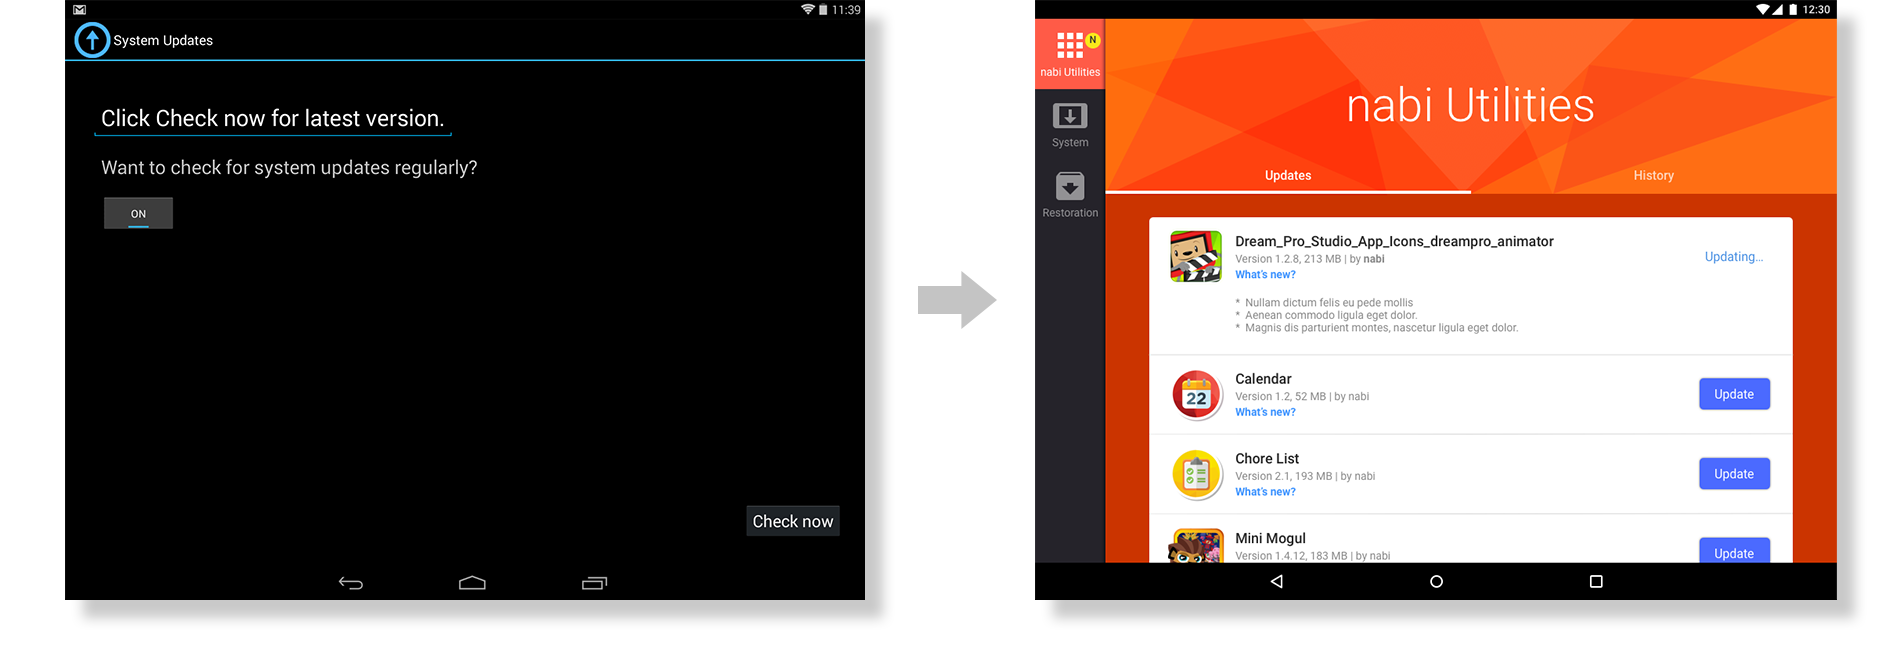
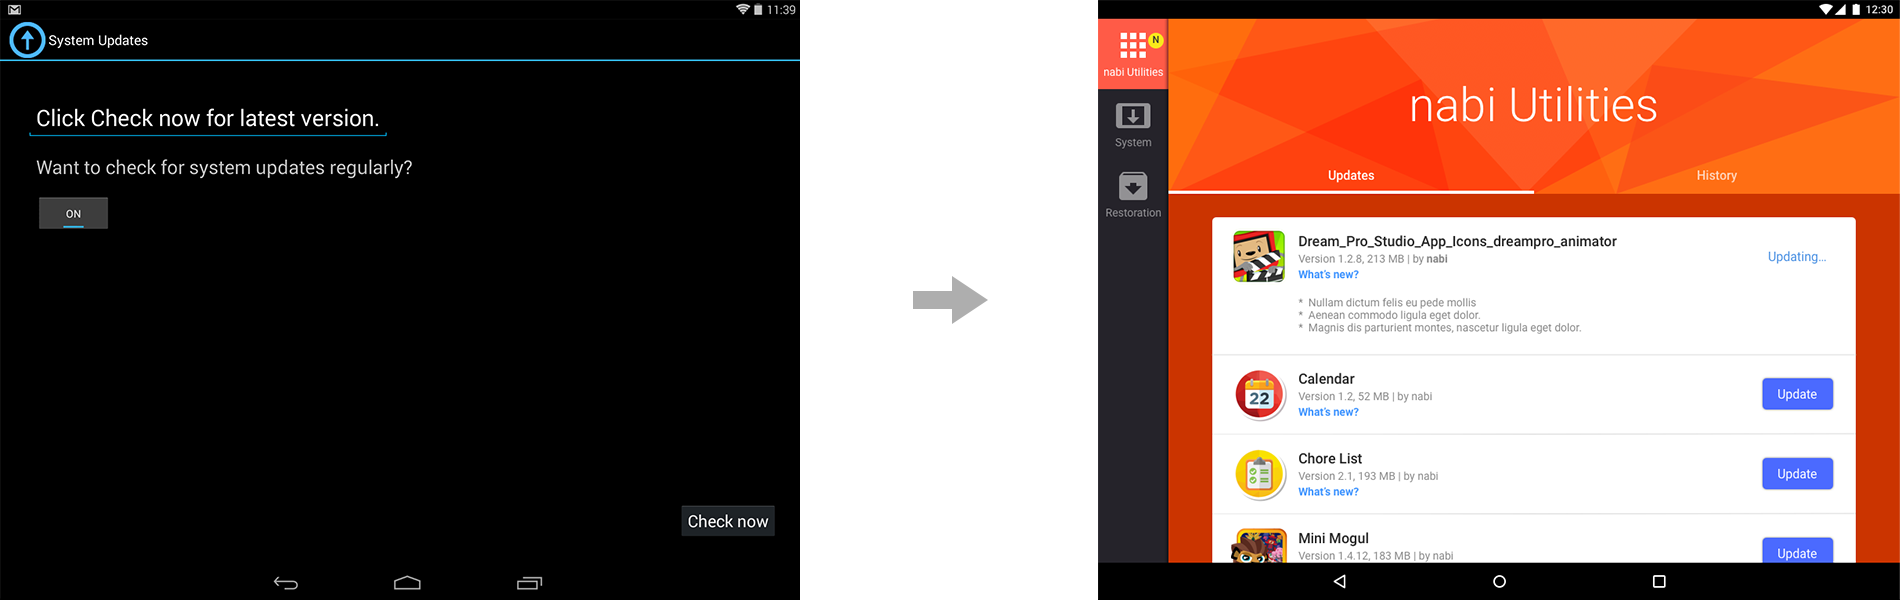
finalized the update center

diff --git a/updatecenter.html b/updatecenter.html
@@ -57,8 +57,8 @@
             <li class="nav-item"><a href="#list-item-1" class="nav-link">Project goals</a></li>
             <li class="nav-item"><a href="#list-item-2" class="nav-link">Root Cause Analysis</a></li>
             <li class="nav-item"><a href="#list-item-3" class="nav-link">Solution Ideation</a></li>
-            <li class="nav-item"><a href="#list-item-4" class="nav-link">Effort prioritization</a></li>
-            <li class="nav-item"><a href="#list-item-5" class="nav-link">The Design</a></li>
+            <li class="nav-item"><a href="#list-item-4" class="nav-link">Effort Prioritization</a></li>
+            <li class="nav-item"><a href="#list-item-5" class="nav-link">Final Design</a></li>
           </ul>
         </nav>
       </div>
@@ -67,7 +67,7 @@
       <main class="col-md-10 order-md-1 order-2" >
         <!--  <div class="genScreenshot"><img src="images/update/updateCenter_1.gif" width="640" height="430" alt=""/></div> -->
   
-		
+		 
 		  <div id="projectBrief" class="row">
           <div class="col-md-6">
             <h4 id="list-item-1">Project Goals</h4>
@@ -81,8 +81,7 @@
             </ul>
           </div>
         </div>
-		      <div class="genScreenshot"><img src="images/update/update_finalResult.png"/>
-          </div>
+		       <div class="genScreenshot"> <img src="images/update/update_finalResult.png"/></div>
         <div class="mySectionGroup">
           <h2 id="list-item-2"><span class="headingTag">Root Cause Analysis</span><br>
             Inspect Why the Flow Confused People</h2>
@@ -128,33 +127,39 @@
           <div class="genScreenshot"><img src="images/update/update_priority.png"/>
 
           </div>
-          <h2>The Design</h2>
-			        <div class="genScreenshot"><img src="images/update/Install.png"/>
-            <p>When the update is available, the system proactively prompts users.</p>
+			  <h2 id="list-item-5"><span class="headingTag">Final Design</span><br>
+           The New System Update Flow</h2>
+        
+			        <div class="genScreenshot"><img src="images/update/update_install.png"/>
+            <p>↑ The system prompts users when the update is ready.</p>
           </div>
-          <div class="genScreenshot"><img src="images/update/1_nabiApp.png"/>
-            <p>caption here</p>
+          <div class="genScreenshot"><img src="images/update/update_system.png"/>
+            <p>↑ The System Update page provide detailed release notes. </p>
+          </div>
+			<div class="genScreenshot"><img src="images/update/update_damage.png"/>
+            <p>↑ Before installing updates, the system will verify files to prevent installation failure due to corrupted files.</p>
+          </div>
+			 <div class="genScreenshot"><img src="images/update/update_lowBattery.png"/>
+            <p>↑ To avoid update failures, the system prompts users to connect the charger before the installation proceeds.</p>
+          </div>
+			<div class="genScreenshot"><img src="images/update/2_System_up-to-date.png"/>
+            <p>↑ Once updated, the tablet displays "Your System is Up to Date" on the page.</p>
+          </div>
+			 <h2><span class="headingTag">Final Design</span><br>
+        The centralized Place for Updating Built-in Tools</h2>
+			<div class="genScreenshot"><img src="images/update/1_nabiApp.png"/>
+            <p>↑ The update information for the nabi® built-in tools is centralized on the nabi Utilities page.</p>
           </div>
           <div class="genScreenshot"><img src="images/update/1_nabiApp_History.png"/>
-            <p>caption here</p>
+            <p>↑ Users can check the release notes for recent updates.</p>
           </div>
           <div class="genScreenshot"><img src="images/update/3_Restoration.png"/>
-            <p>caption here</p>
+            <p>↑ A centralized place for users to update or restore the gift apps.</p>
           </div>
-          <div class="genScreenshot"><img src="images/update/2_System_up-to-date.png"/>
-            <p>caption here</p>
-          </div>
-          <h2 id="list-item-8"><span class="headingTag">Design</span><br>
-            Notifications</h2>
-  
-          <h2 id="list-item-9"><span class="headingTag">Design</span><br>
-            Error Handling</h2>
-          <div class="genScreenshot"><img src="images/update/update_damage.png"/>
-            <p>caption here</p>
-          </div>
-          <div class="genScreenshot"><img src="images/update/update_lowBattery.png"/>
-            <p>caption here</p>
-          </div>
+          
+    
+          
+         
         </div>
       </main>
       <p></p>
